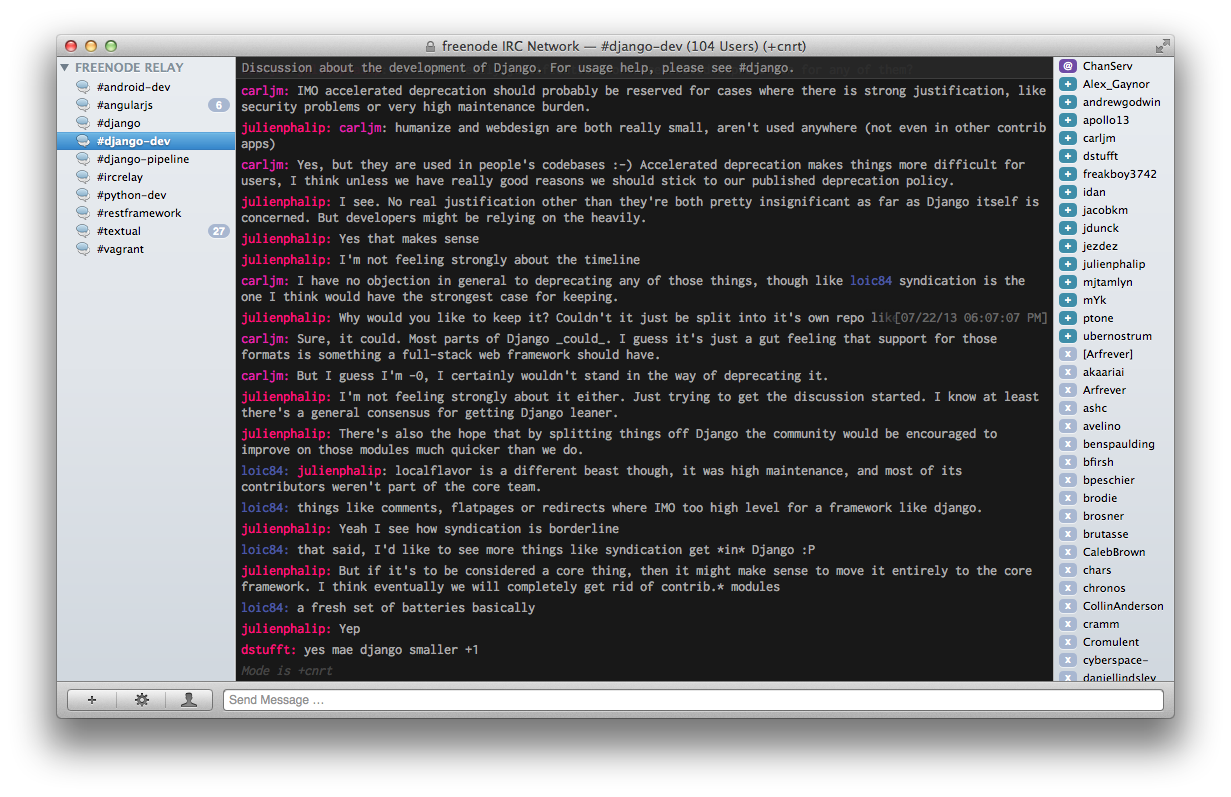
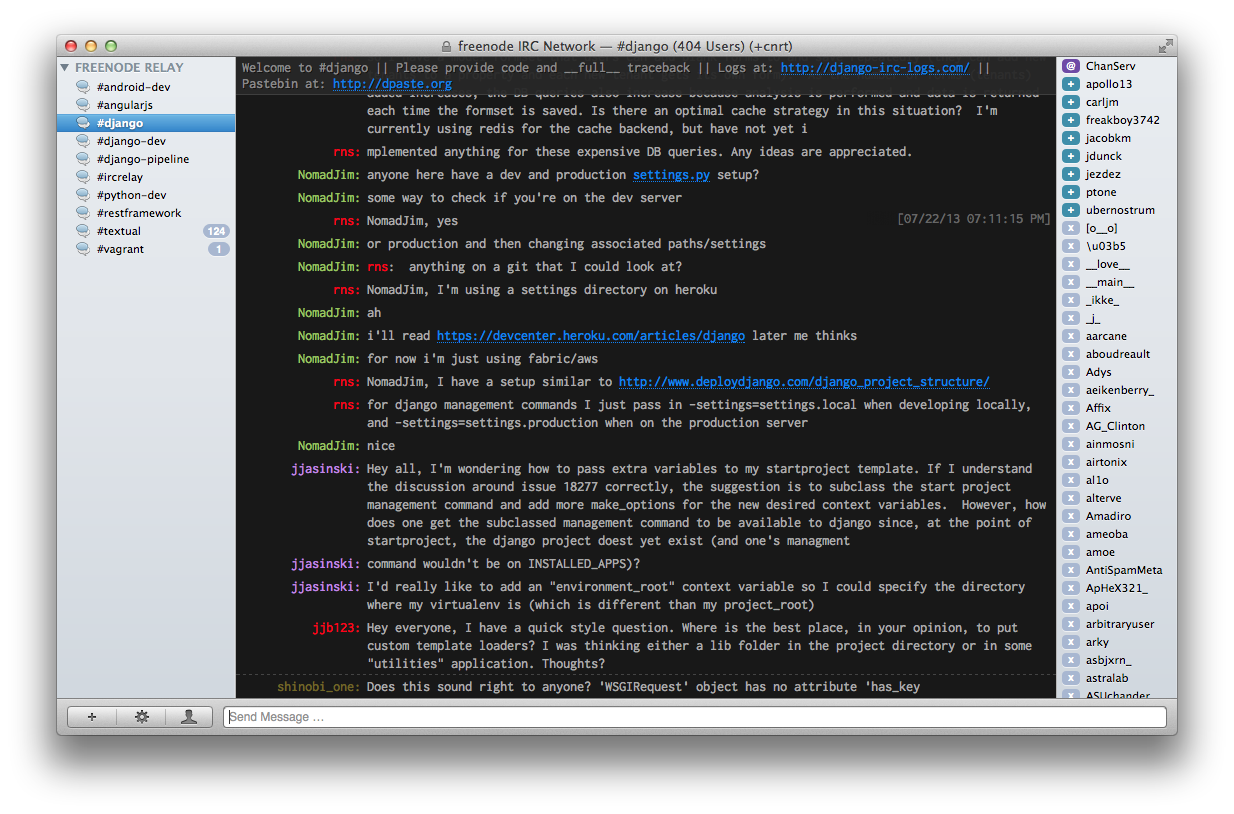
Aligned nicks

Changed region(s): [[0.0309, 0.0301, 0.9569, 0.9034], [0.9261, 0.0301, 0.9569, 0.0602]]

diff --git a/design.css b/design.css
@@ -53,9 +53,12 @@ body div#body_home {
 body[type=channel] div#body_home {
   max-height: 96.5%;
 }
-
+body div.line {
+  line-height: 1.2em;
+  display: block;
+}
 body div.line .message {
-  display: inline-block;
+  line-height: 1.5em;
 }
 
 body div.line p {
@@ -67,6 +70,15 @@ body div.line p {
 
 body[dir=rtl] .sender {
     display: inline-block;
+}
+
+body[dir=ltr] .sender {
+    display: block;
+    width: 10em;
+    text-overflow: ellipsis;
+    overflow: hidden;
+    text-align: right;
+    float: left;
 }
 
 /* Time */
@@ -84,6 +96,14 @@ body[dir=ltr] .time {
   right: 0;
   opacity: 0;
   background: -webkit-linear-gradient(left, rgba(24,24,24,0) 0%,rgba(24,24,24,1) 20%,rgba(24,24,24,1) 100%); /* Chrome10+,Safari5.1+ */
+}
+body .line {
+  clear: both;
+}
+body[dir=ltr] .line .content {
+  margin-left:10.5em;
+  display: block;
+  width: auto;
 }
 body[dir=ltr] .line:hover .time {
   opacity: 1;
@@ -559,7 +579,10 @@ body div.line[type*=topic],
 body div.line[type*=website] {
   font-style: italic;
   font-weight: 100;
+  font-size: .8em;
+  /*line-height: .8em;*/
   color: #444;
+  margin-left: 126px;
 }
 
 body .inline_nickname {
